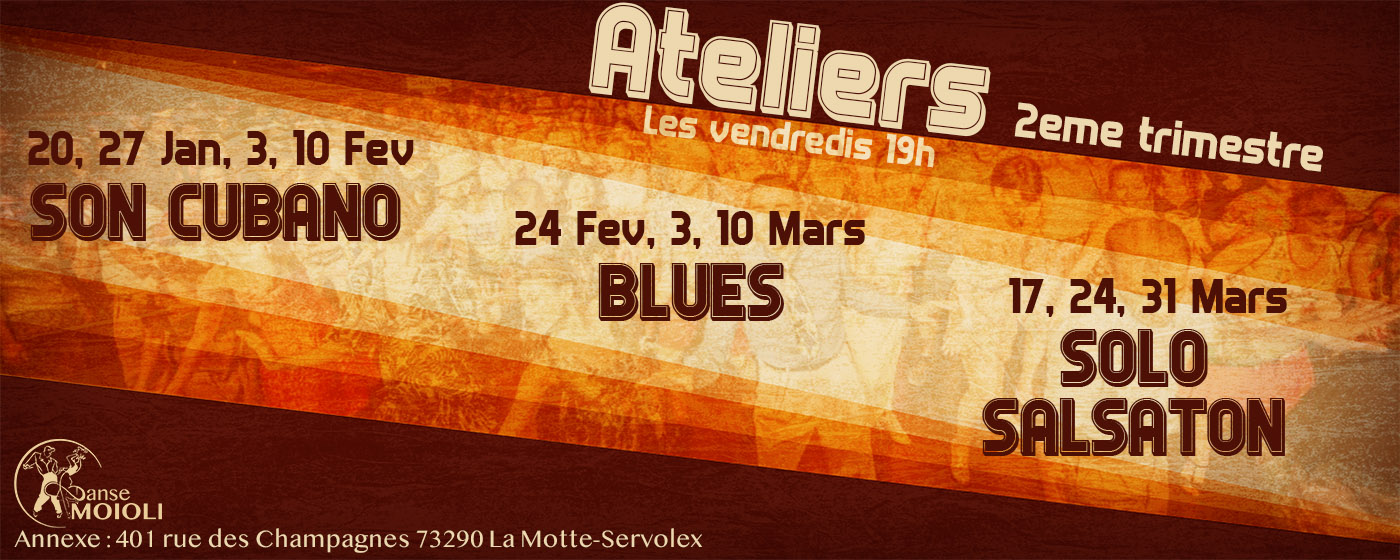
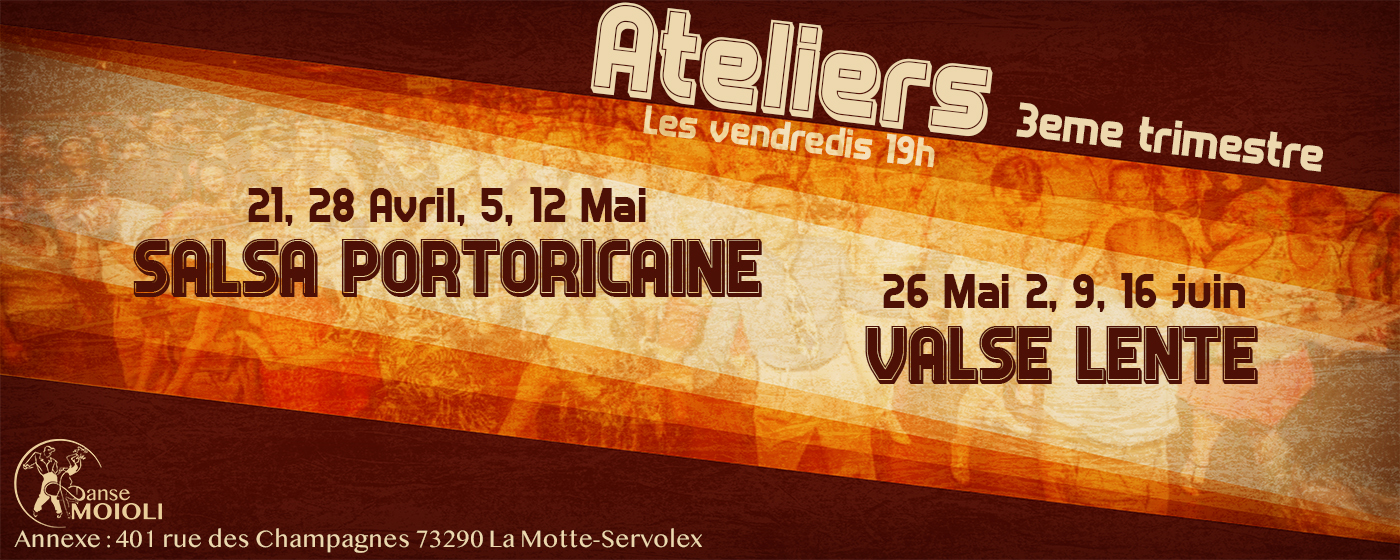
Mise à jour ateliers 3eme trimestre

Changed region(s): [[0.0, 0.2125, 0.6143, 0.5768], [0.6143, 0.4857, 0.9214, 0.8196], [0.3993, 0.0, 0.7371, 0.2429]]

diff --git a/cours/ateliers.html b/cours/ateliers.html
@@ -35,44 +35,31 @@ categories:
     <h3>Planning Janvier - Février - Mars 2023</h3>
       <div class="card mb-4 shadow-sm border-light">
         <div class="card-header">
-          <h4 class="my-0 font-weight-normal">SON CUBANO</h4>
+          <h4 class="my-0 font-weight-normal">SALSA PORTORICAINE</h4>
         </div>
         <div class="card-body">
           <div class="text-muted">
             <div class="float-right">30 € / personne (les 4 cours)</div>
-            20 - 27 janvier - 3 - 10 février 2023
+            21 - 28 avril - 5 - 12 mai 2023
           </div>
-          <p class="mb-0"><i>(danse en couple)</i><br>Le Son est une musique traditionnelle cubaine à l’origine de la Salsa.<br>
-            La danse qui y est associé se différencie notamment par son style : on peut dire qu’il s’y dégage calme et classe.<br>
-            Cet atelier vous permettra de plonger dans la culture cubaine et d’enrichir votre Salsa.<br>
-            Attention les bases de salsa sont indispensables pour suivre cet atelier.<br>
-          <a href="https://www.youtube.com/watch?v=zKlCJuhfri8" target="_blank">Le Son en vidéo</a> </p>
+          <p class="mb-0"><i>(danse en couple)</i><br>La Salsa Portoricaine, ou la "porto" s'organise sur une ligne de danse à l'instar de la salsa cubaine qui elle se danse en rond.<br>
+            Cette salsa se caractérise également par un style élégant et une technicité un peu plus fine.<br>
+            Cet atelier vous permettra de découvrir un nouveau style et de nouvelles variations qui viendront enrichir votre danse.<br>
+            Attention les bases de salsa cubaine sont indispensables pour suivre cet atelier.<br>
+          <a href="https://www.youtube.com/watch?v=3OJNAGmuEEY" target="_blank">Le Salsa portoricaine en vidéo</a> </p>
           <div class="float-right"><a class="btn btn-primary" href="https://forms.gle/c6xtCV29Gr8LQSYt9" target="_blank">Inscription</a></div>
         </div>
         <div class="card-header">
-          <h4 class="my-0 font-weight-normal">BLUES</h4>
+          <h4 class="my-0 font-weight-normal">VALSE LENTE</h4>
         </div>
         <div class="card-body">
           <div class="text-muted">
-            <div class="float-right">25 € / personne (les 3 cours)</div>
-            24 février - 3 - 10 mars 2023
+            <div class="float-right">30 € / personne (les 4 cours)</div>
+            26 mai - 2 - 9 - 16 juin 2023
           </div>
-          <p class="mb-0"><i>(danse en couple)</i><br>La danse blues est aussi ancienne que la musique du même nom. <br>
-            Le blues est une danse de couple où le ressenti est l’élément le plus important. Il s’agit d’un moment de détente, de relâchement sur des musiques envoûtantes, puissantes et chargées qui transportent aussi bien l’âme que le corps dans un abandon plus ou moins marqué.<br>
-            <a href="https://www.youtube.com/watch?v=5yIWbN1eZXQ" target="_blank">Le Blues en vidéo</a></p>
+          <p class="mb-0"><i>(danse en couple)</i><br>La valse anglaise, aussi appelée valse lente, est une danse de salon progressive caractérisée par de longs mouvements fluides et des élévations en vague des danseurs sur la piste de danse. Elle se distingue de la valse française et de la valse viennoise par ses grands déplacements sur la piste de danse et son tempo lent. <br>
+            Découvrez les plaisirs de cette belle danse incontournable dans vos soirées.<br>
           <div class="float-right"><a class="btn btn-primary" href="https://forms.gle/RkkKAxYJEz2Ub1uD7" target="_blank">Inscription</a></div>
-        </div>
-        <div class="card-header">
-          <h4 class="my-0 font-weight-normal">SOLO SALSATON</h4>
-        </div>
-        <div class="card-body">
-          <div class="text-muted">
-            <div class="float-right">25 € / personne (les 3 cours)</div>
-            17 - 24 - 31 mars 2023
-          </div>
-          <p class="mb-0"><i>(danse en solo)</i> La salsaton est un style musical né de la fusion entre la salsa et le raggaeton <br>
-            Venez vous déffouler lors de cet atelier rythmé qui combinera jeux de jambes et isolations corporels dans une chorégraphie.</p>
-          <div class="float-right"><a class="btn btn-primary" href="https://forms.gle/rmEBeewBeFfXtqRa7" target="_blank">Inscription</a></div>
         </div>
       </div>
     </div>
